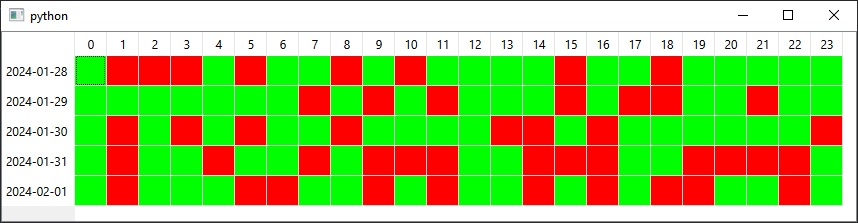
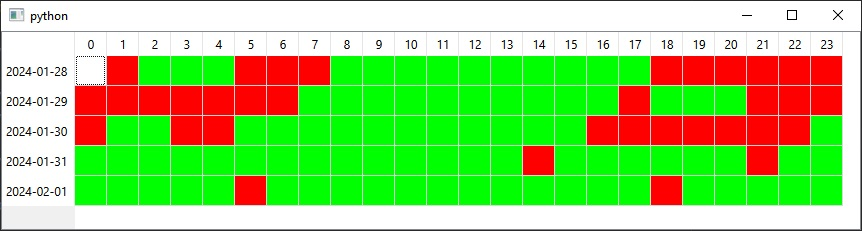
Bugfix

diff --git a/html_parsing/mywishlist_ru/etc/visualize logs from availability_check/main.py b/html_parsing/mywishlist_ru/etc/visualize logs from availability_check/main.py
@@ -18,19 +18,35 @@ FILE_NAME_LOGS = DIR / "logs.txt"
 
 
 def get_date_by_hours(text: str) -> dict[date, list[bool]]:
-    items = re.findall(r"\[(.+?),\d+]", text)
-    dates = [
-        datetime.strptime(item, "%Y-%m-%d %H:%M:%S")
-        for item in items
-    ]
-    dates = sorted(set(dates))
+    date_by_hours: dict[date, list[bool | None]] = dict()
 
-    date_by_hours: dict[date, list[bool]] = dict()
-    for d in dates:
-        if d.date() not in date_by_hours:
-            date_by_hours[d.date()] = [False for _ in range(24)]
+    for line in text.splitlines():
+        m = re.search(r"\[(.+?),\d+]", line)
+        if not m:
+            continue
 
-        date_by_hours[d.date()][d.hour] = True
+        dt = datetime.strptime(m.group(1), "%Y-%m-%d %H:%M:%S")
+
+        date_obj = dt.date()
+        if date_obj not in date_by_hours:
+            date_by_hours[date_obj] = [None for _ in range(24)]
+
+        date_by_hours[date_obj][dt.hour] = "Сайт доступен" in line
+
+    # Нужно заполнить промежутки между часами - например,
+    # сайт был доступен с 13 до 17, но в логах будут только 13 и 17
+    last_available = None
+    for hours in date_by_hours.values():
+        for i, flag in enumerate(hours):
+            if flag is not None:
+                last_available = flag
+                continue
+
+            if last_available is None:
+                continue
+
+            if flag is None:
+                hours[i] = last_available
 
     return date_by_hours
 
@@ -40,6 +56,7 @@ if __name__ == "__main__":
 
     table_widget = QTableWidget()
     table_widget.setEditTriggers(QTableWidget.EditTrigger.NoEditTriggers)
+    table_widget.setSelectionMode(QTableWidget.SelectionMode.NoSelection)
 
     table_widget.show()
 
@@ -61,11 +78,12 @@ if __name__ == "__main__":
         for col, hour_flag in enumerate(hours):
             item = QTableWidgetItem()
 
-            if hour_flag:
-                item.setBackground(Qt.GlobalColor.red)
-                item.setForeground(Qt.GlobalColor.white)
-            else:
-                item.setBackground(Qt.GlobalColor.green)
+            if hour_flag is not None:
+                if hour_flag:
+                    item.setBackground(Qt.GlobalColor.green)
+                else:
+                    item.setBackground(Qt.GlobalColor.red)
+                    item.setForeground(Qt.GlobalColor.white)
 
             table_widget.setItem(row, col, item)
 
